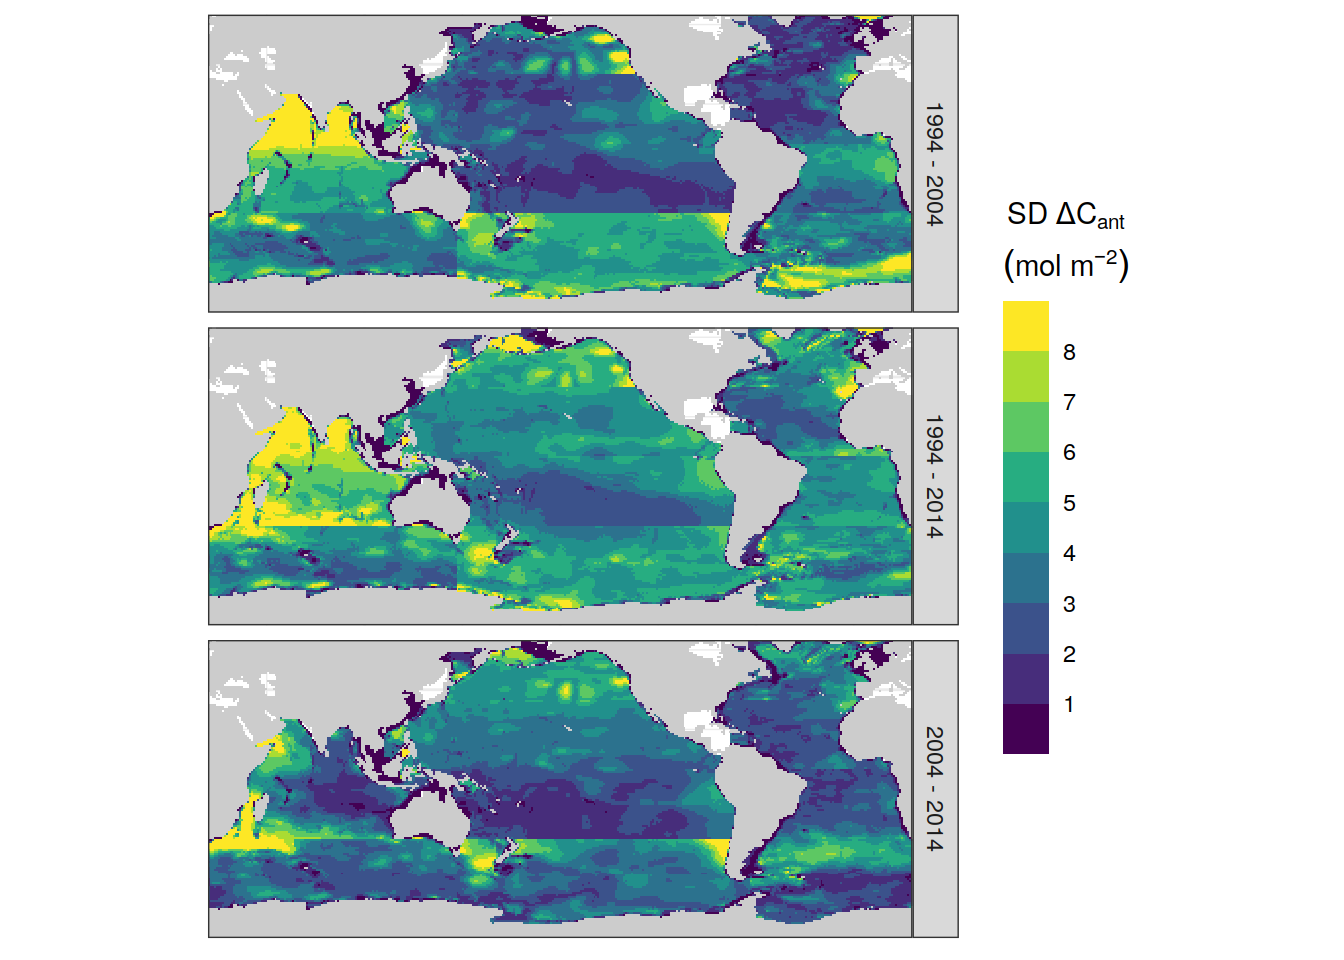
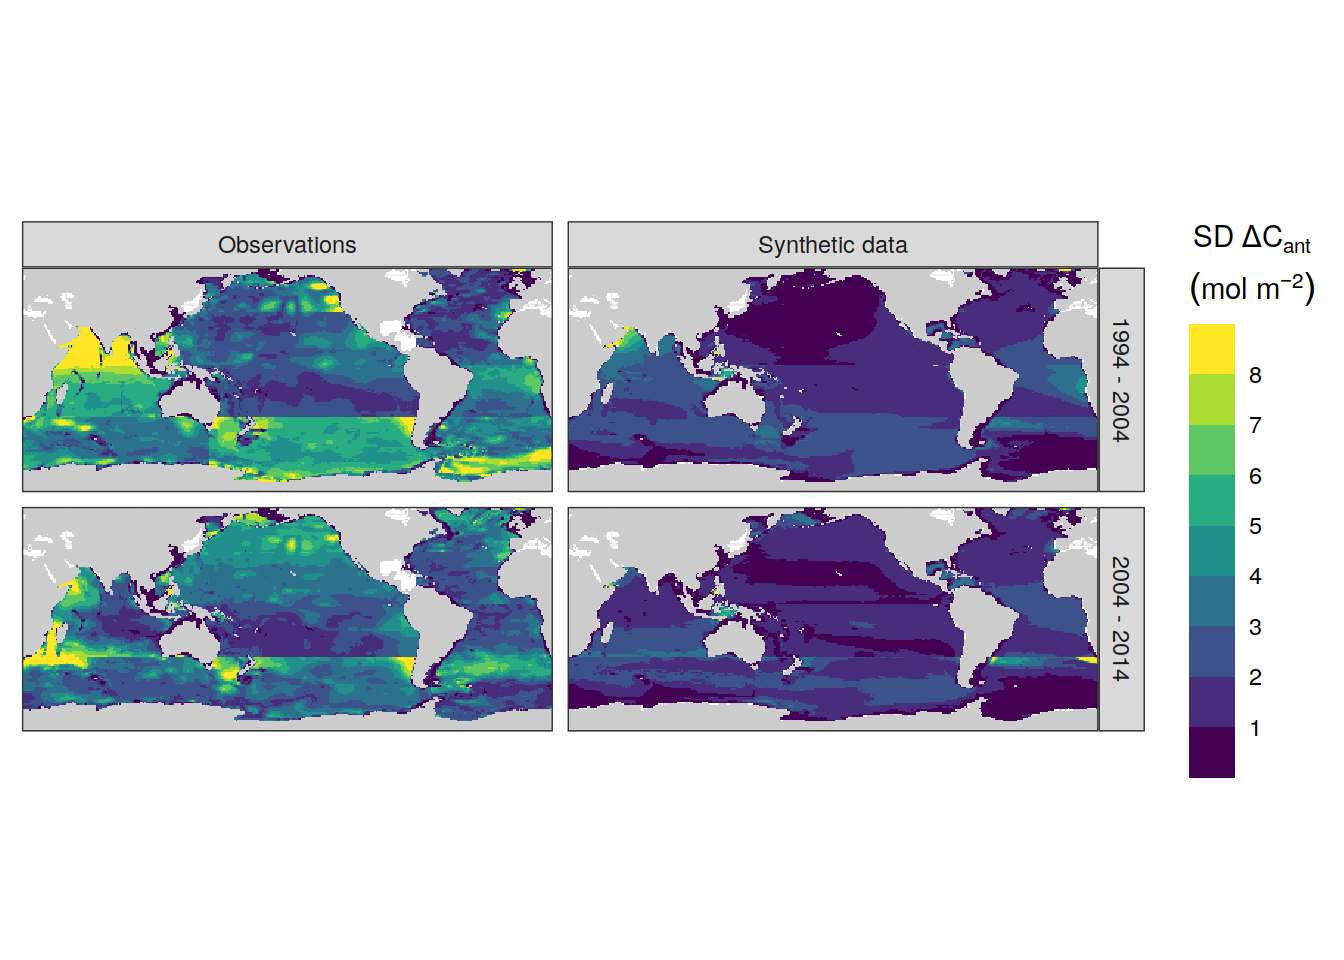
Build site.

diff --git a/docs/results_publication.html b/docs/results_publication.html
@@ -666,7 +666,7 @@ div.tocify {
 
 <h1 class="title toc-ignore">Results publication</h1>
 <h4 class="author">Jens Daniel Müller</h4>
-<h4 class="date">29 August, 2022</h4>
+<h4 class="date">07 September, 2022</h4>
 
 </div>
 
@@ -691,7 +691,7 @@ div.tocify {
 <div class="tab-content">
 <div id="summary" class="tab-pane fade in active">
 <p>
-<strong>Last updated:</strong> 2022-08-29
+<strong>Last updated:</strong> 2022-09-07
 </p>
 <p>
 <strong>Checks:</strong> <span class="glyphicon glyphicon-ok text-success" aria-hidden="true"></span> 7 <span class="glyphicon glyphicon-exclamation-sign text-danger" aria-hidden="true"></span> 0
@@ -782,16 +782,16 @@ This reproducible <a href="https://rmarkdown.rstudio.com">R Markdown</a> analysi
 <div class="panel panel-default">
 <div class="panel-heading">
 <p class="panel-title">
-<a data-toggle="collapse" data-parent="#workflowr-checks" href="#strongRepositoryversionstrongahrefhttpsgithubcomjensdanielmuelleremlrobsanalysistree392f3d758324ba63c9f909f229aa0c62e49ffdb2targetblank392f3d7a"> <span class="glyphicon glyphicon-ok text-success" aria-hidden="true"></span> <strong>Repository version:</strong> <a href="https://github.com/jens-daniel-mueller/emlr_obs_analysis/tree/392f3d758324ba63c9f909f229aa0c62e49ffdb2" target="_blank">392f3d7</a> </a>
+<a data-toggle="collapse" data-parent="#workflowr-checks" href="#strongRepositoryversionstrongahrefhttpsgithubcomjensdanielmuelleremlrobsanalysistree784849d405139979b7d2bafb0a985ceff0cfa710targetblank784849da"> <span class="glyphicon glyphicon-ok text-success" aria-hidden="true"></span> <strong>Repository version:</strong> <a href="https://github.com/jens-daniel-mueller/emlr_obs_analysis/tree/784849d405139979b7d2bafb0a985ceff0cfa710" target="_blank">784849d</a> </a>
 </p>
 </div>
[2 lines of base64/hex data omitted]
 <div class="panel-body">
 <p>
 Great! You are using Git for version control. Tracking code development and connecting the code version to the results is critical for reproducibility.
 </p>
 <p>
-The results in this page were generated with repository version <a href="https://github.com/jens-daniel-mueller/emlr_obs_analysis/tree/392f3d758324ba63c9f909f229aa0c62e49ffdb2" target="_blank">392f3d7</a>. See the <em>Past versions</em> tab to see a history of the changes made to the R Markdown and HTML files.
+The results in this page were generated with repository version <a href="https://github.com/jens-daniel-mueller/emlr_obs_analysis/tree/784849d405139979b7d2bafb0a985ceff0cfa710" target="_blank">784849d</a>. See the <em>Past versions</em> tab to see a history of the changes made to the R Markdown and HTML files.
 </p>
 <p>
 Note that you need to be careful to ensure that all relevant files for the analysis have been committed to Git prior to generating the results (you can use <code>wflow_publish</code> or <code>wflow_git_commit</code>). workflowr only checks the R Markdown file, but you know if there are other scripts or data files that it depends on. Below is the status of the Git repository when the results were generated:
@@ -808,9 +808,6 @@ Untracked files:
     Untracked:  code/visualization_equal_earth.R
     Untracked:  code/visualization_equal_earth_cleaned.R
     Untracked:  code/visualization_equal_earth_cleaned_jdm.R
-
-Unstaged changes:
-    Modified:   code/Workflowr_project_managment.R
 
 </code></pre>
 <p>
@@ -849,6 +846,40 @@ Message
 </tr>
 </thead>
 <tbody>
+<tr>
+<td>
+Rmd
+</td>
+<td>
+<a href="https://github.com/jens-daniel-mueller/emlr_obs_analysis/blob/784849d405139979b7d2bafb0a985ceff0cfa710/analysis/results_publication.Rmd" target="_blank">784849d</a>
+</td>
+<td>
+jens-daniel-mueller
+</td>
+<td>
+2022-09-07
+</td>
+<td>
+included uncertainty assesment for column inventories
+</td>
+</tr>
+<tr>
+<td>
+html
+</td>
+<td>
+<a href="https://rawcdn.githack.com/jens-daniel-mueller/emlr_obs_analysis/4eb9ed26d11395b83a7d7fd25e9e6e58da8d8389/docs/results_publication.html" target="_blank">4eb9ed2</a>
+</td>
+<td>
+jens-daniel-mueller
+</td>
+<td>
+2022-08-29
+</td>
+<td>
+Build site.
+</td>
+</tr>
 <tr>
 <td>
 html
@@ -6325,6 +6356,7 @@ dcant_layer_budget_label &lt;-
   expression(Delta ~ C[ant] ~ &quot;budget per 500m depth layer (PgC)&quot;)
 
 dcant_CI_label &lt;- expression(Delta * C[ant]~(mol ~ m ^ {-2}))
+delta_dcant_CI_label &lt;- expression(Delta * Delta * C[ant]~(mol ~ m ^ {-2}))
 beta_CI_label &lt;- expression(beta~(mol ~ m ^ {-2} ~ µatm ^ {-1}))</code></pre>
 </div>
 <div id="coverage-maps" class="section level1" number="4">
@@ -7746,6 +7778,46 @@ obs
 </tbody>
 </table>
 </div>
+<pre class="r"><code>p_CI_absolute_mod_delta &lt;- dcant_inv_all %&gt;%
+  filter(period %in% two_decades,
+         data_source != &quot;obs&quot;) %&gt;%
+  mutate(data_source = case_when(
+    data_source == &quot;mod&quot; ~ &quot;Reconstruction&quot;,
+    data_source == &quot;mod_truth&quot; ~ &quot;Model truth&quot;
+  )) %&gt;%  
+  p_map_cant_inv(var = &quot;dcant&quot;,
+                 title_text = NULL) +
+  facet_grid(period ~ data_source) +
+  theme(axis.text.x = element_blank()) 
+
+p_CI_bias_delta &lt;-
+  dcant_inv_all %&gt;%
+  filter(period %in% two_decades,
+         data_source != &quot;obs&quot;) %&gt;%
+  select(data_source, lon, lat, basin_AIP, period, dcant) %&gt;%
+  pivot_wider(names_from = period,
+              values_from = dcant) %&gt;%
+  mutate(dcant_offset = `2004 - 2014` - `1994 - 2004`,
+         period = &quot;Decadal offset&quot;) %&gt;%
+  p_map_cant_inv(
+    var = &quot;dcant_offset&quot;,
+    title_text = NULL,
+    subtitle_text = NULL,
+    col = &quot;bias&quot;
+  ) +
+  facet_grid(period ~ data_source) +
+  theme(strip.text.x = element_blank(),
+        strip.background.x = element_blank())
+
+p_CI_absolute_mod_delta / p_CI_bias_delta + 
+  plot_annotation(tag_levels = &#39;A&#39;)</code></pre>
+<p><img src="figure/results_publication.Rmd/invetory_maps_delta_dcant_mod_bias-1.png" width="672" style="display: block; margin: auto;" /></p>
+<pre class="r"><code>ggsave(path = here::here(&quot;output/publication&quot;),
+       filename = &quot;FigS_delta_dcant_column_inventory_synthetic_data.png&quot;,
+       height = 7,
+       width = 8)
+
+rm(p_CI_absolute_mod_delta, p_CI_bias_delta)</code></pre>
 </div>
 <div id="dcant---absolute-delta" class="section level3" number="7.1.2">
 <h3><span class="header-section-number">7.1.2</span> dcant - absolute delta</h3>
@@ -8312,22 +8384,103 @@ jens-daniel-mueller
 
 rm(p_CI_absolute_mod, p_CI_bias)</code></pre>
 </div>
-<div id="ensemble-sd" class="section level3" number="7.1.4">
-<h3><span class="header-section-number">7.1.4</span> Ensemble SD</h3>
+<div id="density-distributions" class="section level3" number="7.1.4">
+<h3><span class="header-section-number">7.1.4</span> Density distributions</h3>
+<pre class="r"><code>bind_rows(
+  dcant_inv_all %&gt;%
+    filter(period %in% two_decades) %&gt;%
+    mutate(
+      data_source = case_when(
+        data_source == &quot;mod&quot; ~ &quot;Reconstruction&quot;,
+        data_source == &quot;obs&quot; ~ &quot;Observations&quot;,
+        data_source == &quot;mod_truth&quot; ~ &quot;Model truth&quot;
+      )
+    ) %&gt;%
+    select(data_source, dcant, period),
+  dcant_inv_bias_all %&gt;%
+    filter(period %in% two_decades) %&gt;%
+    mutate(data_source = &quot;Reconstruction bias&quot;) %&gt;%
+    select(data_source, dcant = dcant_pos_bias, period)
+) %&gt;%
+  ggplot(aes(dcant, col = data_source)) +
+  scale_color_brewer(palette = &quot;Dark2&quot;) +
+  scale_fill_brewer(palette = &quot;Dark2&quot;) +
+  geom_vline(xintercept = 0) +
+  geom_density(alpha = 0.3) +
+  coord_cartesian(xlim = c(-2, 18)) +
+  facet_grid(period ~ .) +
+  labs(x = dcant_CI_label) +
+  theme(legend.title = element_blank())</code></pre>
+<p><img src="figure/results_publication.Rmd/dcant_column_inventory_density_distribution-1.png" width="672" style="display: block; margin: auto;" /></p>
+<pre class="r"><code>ggsave(path = here::here(&quot;output/publication&quot;),
+       filename = &quot;FigS_dcant_column_inventory_density_distribution.png&quot;,
+       height = 4,
+       width = 7)</code></pre>
+<pre class="r"><code>bind_rows(
+  dcant_inv_all %&gt;%
+    filter(period %in% two_decades) %&gt;%
+    select(data_source, lon, lat, period, dcant) %&gt;%
+    pivot_wider(names_from = period,
+                values_from = dcant) %&gt;%
+    mutate(dcant_offset = `2004 - 2014` - `1994 - 2004`,
+           period = &quot;(2004 - 2014) - (1994 - 2004)&quot;)  %&gt;%
+    mutate(
+      data_source = case_when(
+        data_source == &quot;mod&quot; ~ &quot;Reconstruction&quot;,
+        data_source == &quot;obs&quot; ~ &quot;Observations&quot;,
+        data_source == &quot;mod_truth&quot; ~ &quot;Model truth&quot;
+      )
+    ) %&gt;%
+    select(data_source, dcant_offset, period),
+  dcant_inv_bias_all %&gt;%
+    filter(period %in% two_decades) %&gt;%
+    select(lon, lat, period, dcant_bias) %&gt;%
+    pivot_wider(names_from = period,
+                values_from = dcant_bias) %&gt;%
+    mutate(dcant_offset = `2004 - 2014` - `1994 - 2004`,
+           period = &quot;(2004 - 2014) - (1994 - 2004)&quot;)  %&gt;%
+    mutate(data_source = &quot;Reconstruction bias&quot;) %&gt;%
+    select(data_source, dcant_offset, period)
+) %&gt;%
+  ggplot(aes(dcant_offset, col = data_source)) +
+  scale_color_brewer(palette = &quot;Dark2&quot;) +
+  scale_fill_brewer(palette = &quot;Dark2&quot;) +
+  geom_vline(xintercept = 0) +
+  geom_density(alpha = 0.3) +
+  coord_cartesian(xlim = c(-10, 10)) +
+  labs(x = delta_dcant_CI_label) +
+  theme(legend.title = element_blank())</code></pre>
+<p><img src="figure/results_publication.Rmd/delta_dcant_column_inventory_density_distribution-1.png" width="672" style="display: block; margin: auto;" /></p>
+<pre class="r"><code>ggsave(
+  path = here::here(&quot;output/publication&quot;),
+  filename = &quot;FigS_delta_dcant_column_inventory_density_distribution.png&quot;,
+  height = 3,
+  width = 7
+)</code></pre>
+</div>
+<div id="ensemble-sd" class="section level3" number="7.1.5">
+<h3><span class="header-section-number">7.1.5</span> Ensemble SD</h3>
 <pre class="r"><code>dcant_inv_all_ensemble_mean &lt;-
   dcant_inv_all_ensemble %&gt;%
-  filter(period != &quot;1800 - 1994&quot;,
-         data_source == &quot;obs&quot;) %&gt;%
+  filter(period != &quot;1800 - 1994&quot;) %&gt;%
   group_by(data_source, period, lon, lat) %&gt;%
   summarise(dcant_sd = sd(dcant)*2) %&gt;%
   ungroup()
 
 
 dcant_inv_all_ensemble_mean %&gt;%
+  filter(data_source != &quot;mod_truth&quot;,
+         period %in% two_decades) %&gt;%
+  mutate(
+    data_source = case_when(
+      data_source == &quot;mod&quot; ~ &quot;Synthetic data&quot;,
+      data_source == &quot;obs&quot; ~ &quot;Observations&quot;
+    )
+  ) %&gt;%
   p_map_cant_inv(var = &quot;dcant_sd&quot;,
                  breaks = c(seq(0, 8, 1), Inf),
                  title_text = NULL) +
-  facet_grid(period ~ .) +
+  facet_grid(period ~ data_source) +
   theme(axis.text = element_blank(),
         axis.ticks = element_blank())</code></pre>
 <p><img src="figure/results_publication.Rmd/column_inventory_standard_deviation-1.png" width="672" style="display: block; margin: auto;" /></p>
@@ -8544,13 +8697,13 @@ jens-daniel-mueller
 </table>
 </div>
 </div>
-<pre class="r"><code># ggsave(path = here::here(&quot;output/publication&quot;),
-#        filename = &quot;FigS_dcant_column_inventory_ensemble_standard_deviation.png&quot;,
-#        height = 6,
-#        width = 6)</code></pre>
+<pre class="r"><code>ggsave(path = here::here(&quot;output/publication&quot;),
+       filename = &quot;FigS_dcant_column_inventory_ensemble_standard_deviation.png&quot;,
+       height = 4,
+       width = 8)</code></pre>
 </div>
-<div id="unadjusted-data" class="section level3" number="7.1.5">
-<h3><span class="header-section-number">7.1.5</span> Unadjusted data</h3>
+<div id="unadjusted-data" class="section level3" number="7.1.6">
+<h3><span class="header-section-number">7.1.6</span> Unadjusted data</h3>
 <pre class="r"><code>dcant_inv_all_unadjusted &lt;-
   dcant_inv_all_ensemble %&gt;%
   filter(period %in% two_decades,
@@ -8695,8 +8848,8 @@ jens-daniel-mueller
 
 rm(p_CI_unadjusted, p_CI_unadjusted_bias)</code></pre>
 </div>
-<div id="beta" class="section level3" number="7.1.6">
-<h3><span class="header-section-number">7.1.6</span> beta</h3>
+<div id="beta" class="section level3" number="7.1.7">
+<h3><span class="header-section-number">7.1.7</span> beta</h3>
 <pre class="r"><code>dcant_inv_all %&gt;%
   filter(data_source %in% c(&quot;obs&quot;)) %&gt;% 
   p_map_cant_inv(var = &quot;beta&quot;,
@@ -9629,6 +9782,17 @@ Date
 </tr>
 </thead>
 <tbody>
+<tr>
+<td>
+<a href="https://github.com/jens-daniel-mueller/emlr_obs_analysis/blob/4eb9ed26d11395b83a7d7fd25e9e6e58da8d8389/docs/figure/results_publication.Rmd/global_sections-1.png" target="_blank">4eb9ed2</a>
+</td>
+<td>
+jens-daniel-mueller
+</td>
+<td>
+2022-08-29
+</td>
+</tr>
 <tr>
 <td>
 <a href="https://github.com/jens-daniel-mueller/emlr_obs_analysis/blob/392f3d758324ba63c9f909f229aa0c62e49ffdb2/docs/figure/results_publication.Rmd/global_sections-1.png" target="_blank">392f3d7</a>
